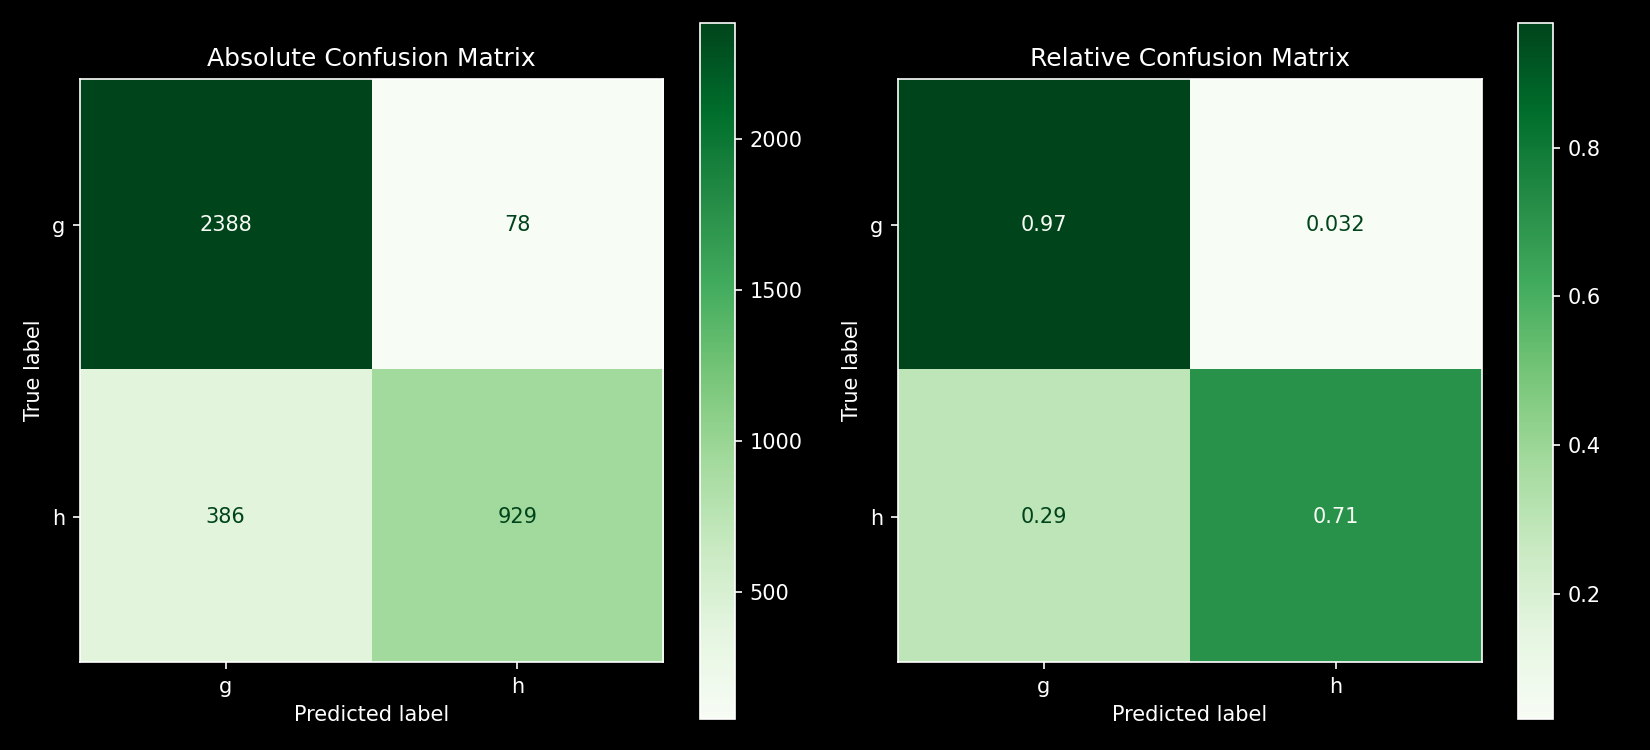
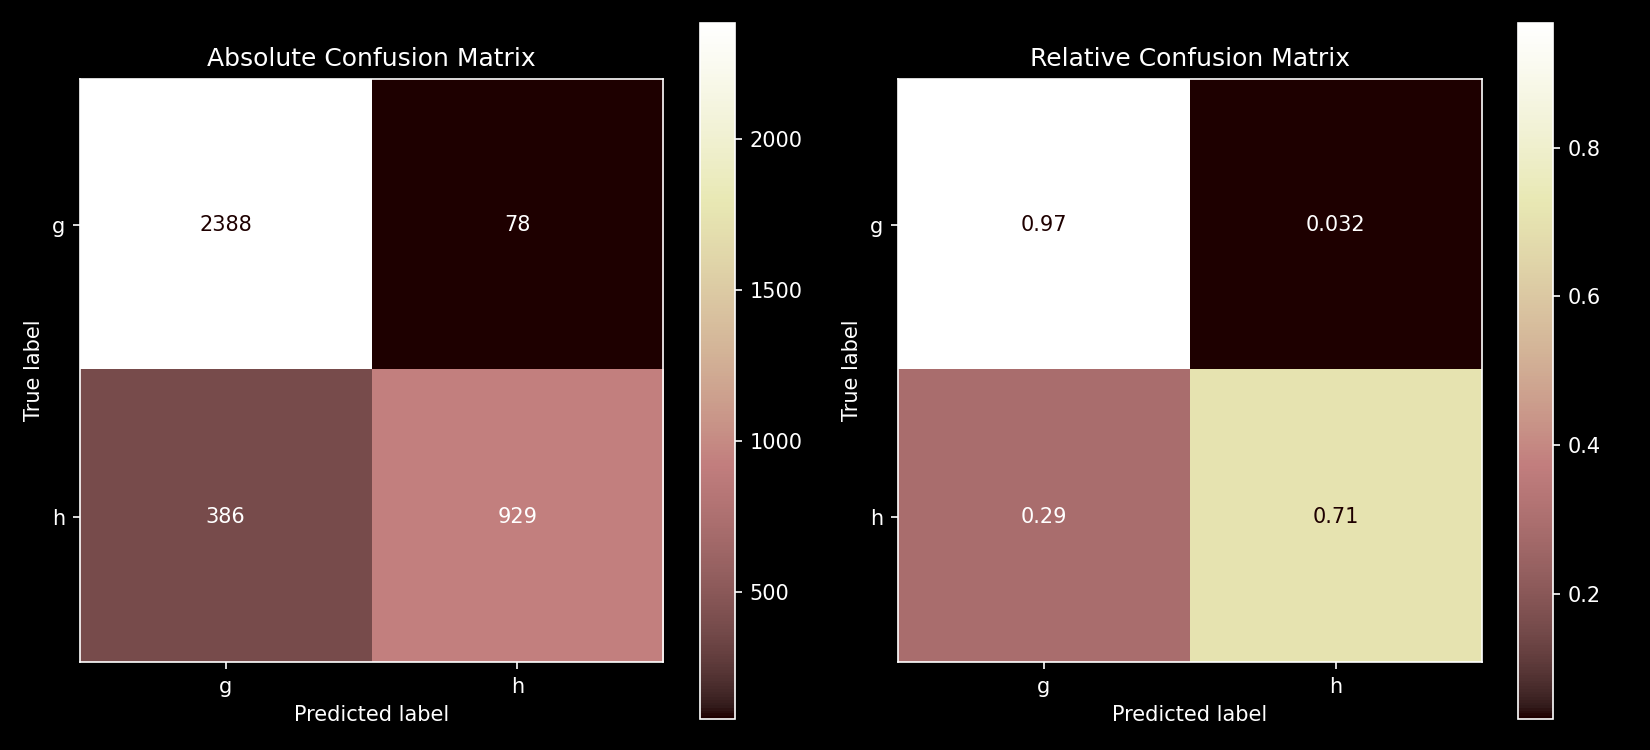
just color changing

diff --git a/05_random_forest.py b/05_random_forest.py
@@ -50,6 +50,12 @@ print("Loaded preprocessed data:")
 print(f"X_train: {X_train.shape}, X_test: {X_test.shape}")
 
 
+plt.style.use("dark_background")
+plt.rcParams["grid.color"] = "#3a3a3a"
+plt.rcParams["grid.alpha"] = 0.6
+
+
+
 # =============================================================================
 # SECTION 2: HYPERPARAMETERS OF RANDOM FOREST
 # =============================================================================
@@ -269,10 +275,10 @@ print(np.round(cm_relative, 3))
 
 fig, axes = plt.subplots(1, 2, figsize=(11, 5))
 
-ConfusionMatrixDisplay(cm, display_labels=["g", "h"]).plot(ax=axes[0], cmap="Oranges")
+ConfusionMatrixDisplay(cm, display_labels=["g", "h"]).plot(ax=axes[0], cmap="summer")
 axes[0].set_title("Absolute Confusion Matrix")
 
-ConfusionMatrixDisplay(cm_relative, display_labels=["g", "h"]).plot(ax=axes[1], cmap="Oranges")
+ConfusionMatrixDisplay(cm_relative, display_labels=["g", "h"]).plot(ax=axes[1], cmap="summer")
 axes[1].set_title("Relative Confusion Matrix")
 
 plt.tight_layout()
@@ -297,7 +303,7 @@ fig, ax = plt.subplots(figsize=(8, 5))
 ax.bar(
     range(len(importances)),
     importances[sorted_idx],
-    color="darkorange",
+    color="lime",
     edgecolor="black"
 )
 
@@ -345,7 +351,7 @@ three models line up directly in 06_evaluation.py."""
 fpr, tpr, thresholds = roc_curve((y_test == "g").astype(int), y_pred_proba)
 
 fig, ax = plt.subplots(figsize=(6, 6))
-ax.plot(fpr, tpr, color="darkorange", label=f"Random Forest (auROC = {auroc:.3f})")
+ax.plot(fpr, tpr, color="lime", label=f"Random Forest (auROC = {auroc:.3f})")
 ax.plot([0, 1], [0, 1], linestyle="--", color="gray", label="Random guessing")
 
 ax.set_xlabel("False Positive Rate (1 - specificity)", fontsize=11)

diff --git a/04_svm.py b/04_svm.py
@@ -359,10 +359,10 @@ print(np.round(cm_relative, 3))
 
 fig, axes = plt.subplots(1, 2, figsize=(11, 5))
 
-ConfusionMatrixDisplay(cm, display_labels=["g", "h"]).plot(ax=axes[0], cmap="Greens")
+ConfusionMatrixDisplay(cm, display_labels=["g", "h"]).plot(ax=axes[0], cmap="pink")
 axes[0].set_title("Absolute Confusion Matrix")
 
-ConfusionMatrixDisplay(cm_relative, display_labels=["g", "h"]).plot(ax=axes[1], cmap="Greens")
+ConfusionMatrixDisplay(cm_relative, display_labels=["g", "h"]).plot(ax=axes[1], cmap="pink")
 axes[1].set_title("Relative Confusion Matrix")
 
 plt.tight_layout()
@@ -399,7 +399,7 @@ print(f"auROC: {auroc:.3f}")
 fpr, tpr, thresholds = roc_curve((y_test == "g").astype(int), y_pred_proba)
 
 fig, ax = plt.subplots(figsize=(6, 6))
-ax.plot(fpr, tpr, color="seagreen", label=f"SVM RBF (auROC = {auroc:.3f})")
+ax.plot(fpr, tpr, color="fuchsia", label=f"SVM RBF (auROC = {auroc:.3f})")
 ax.plot([0, 1], [0, 1], linestyle="--", color="gray", label="Random guessing")
 ax.set_xlabel("False Positive Rate (1 - specificity)", fontsize=11)
 ax.set_ylabel("True Positive Rate (sensitivity)", fontsize=11)

diff --git a/06_evaluation.py b/06_evaluation.py
@@ -21,6 +21,11 @@ import matplotlib.pyplot as plt
 REQUIRED_FPR_THRESHOLDS = [0.01, 0.02, 0.05, 0.1, 0.2]
 
 
+plt.style.use("dark_background")
+plt.rcParams["grid.color"] = "#3a3a3a"
+plt.rcParams["grid.alpha"] = 0.6
+
+
 # =============================================================================
 # SECTION 1: LOAD SAVED RESULTS
 # =============================================================================
@@ -32,9 +37,9 @@ svm = np.load(os.path.join(results_dir, "svm_results.npz"), allow_pickle=True)
 rf = np.load(os.path.join(results_dir, "rf_results.npz"), allow_pickle=True)
 
 models = {
-    "kNN": {"data": knn, "color": "steelblue"},
-    "SVM": {"data": svm, "color": "darkorange"},
-    "Random Forest": {"data": rf, "color": "seagreen"},
+    "kNN": {"data": knn, "color": "deepskyblue"},
+    "SVM": {"data": svm, "color": "fuchsia"},
+    "Random Forest": {"data": rf, "color": "lime"},
 }
 
 print("Loaded saved results for: " + ", ".join(models.keys()))
